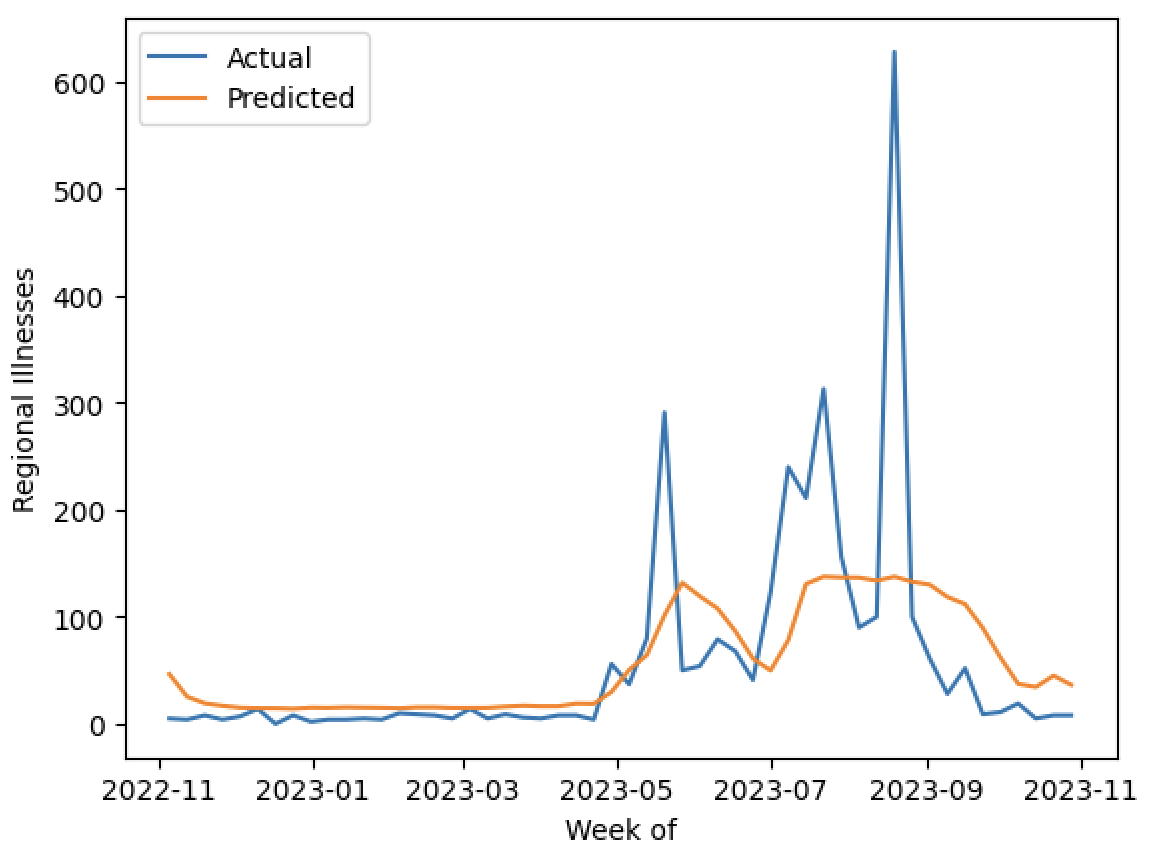
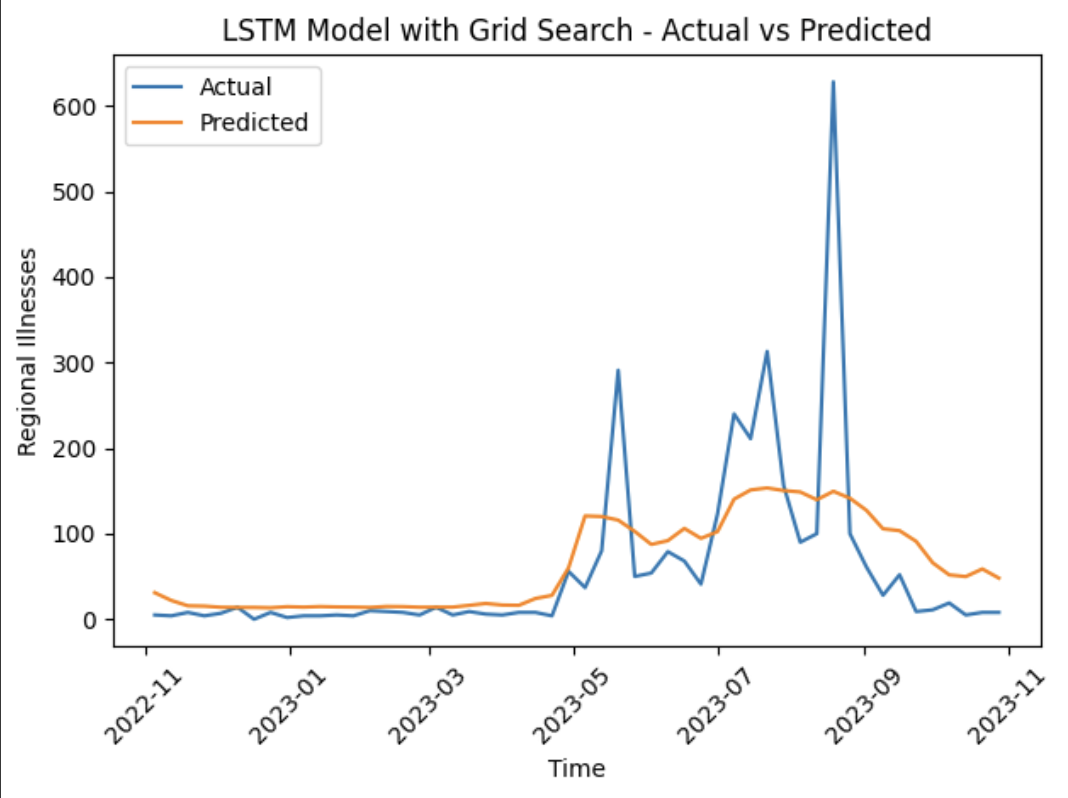
Small LSTM modifications

Changed region(s): [[0.0, 0.0, 0.9888, 0.9925]]

diff --git a/Models/lstm.py b/Models/lstm.py
@@ -31,7 +31,7 @@ def create_model(shape=(1,1,1), units=50, dropout_rate=0.2, learning_rate=0.001,
     return model
 
 # Load your time series data
-df = pd.read_csv('sample_data/260_weeks_data.csv')
+df = pd.read_csv('260_weeks_data.csv')
 
 # Filter data for region 10
 df_region_10 = df[df['Region'] == 10]
@@ -92,6 +92,9 @@ print(f'Test RMSE with Grid Search: {best_rmse}')
 # Plot predictions against actual values
 plt.plot(np.array(df_region_10.index[-len(y_test):]), np.array(y_test), label='Actual')
 plt.plot(np.array(df_region_10.index[-len(y_test):]), best_predictions, label='Predicted')
-plt.xlabel('Week of')
+plt.xlabel('Time')
 plt.ylabel('Regional Illnesses')
+plt.title('LSTM Model with Grid Search - Actual vs Predicted')
+plt.xticks(rotation=45)
+plt.tight_layout()
 plt.legend()
